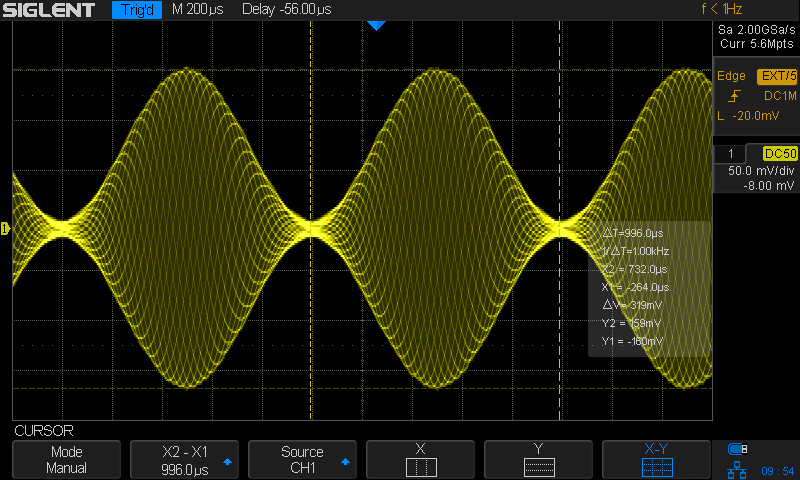
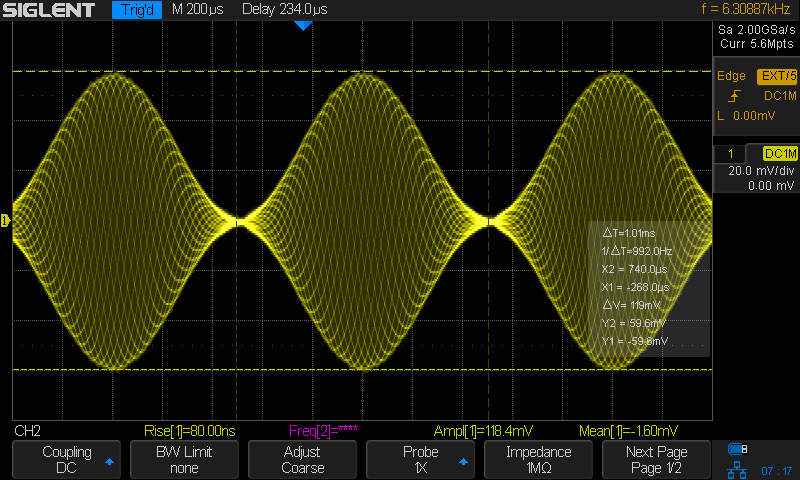
Remove Wiltron.

diff --git a/_drafts/2023-05-07-A-Deep-Dive-Into-RF-Crystal-Detectors.md b/_drafts/2023-05-07-A-Deep-Dive-Into-RF-Crystal-Detectors.md
@@ -1,6 +1,6 @@
 ---
 layout: post
-title: A Beginner's Deep Dive into RF Crystal Detector
+title: The HP 423A and a Beginner's Deep Dive into RF Crystal Detectors
 date:   2023-05-07 00:00:00 -1000
 categories:
 ---
@@ -46,25 +46,20 @@ It's an HP 423A crystal detector. According to the
 > instrument converts RF power levels applied to the 50&#937; input connector into proportional values
 > of DC voltage. ... The frequency range of the 423A is 10MHz to 12.4GHz.
 
-In the introduction of 
-[an earlier blog post](/2023/04/01/Cable-Length-Measurement-with-an-HP-8007B-Pulse-Generator.html), 
-I wrote about John, my local RF equipment dealer. A while ago, he sold me a bargain Wiltron SG-1206/U 
-programmable sweep generator that can send out a signal from 10MHz all the way to 20GHz at power levels 
-between -115dBm to 15dBm. I also picked up a dirt cheap (and smelly) HP 8656A 1GHz signal generator at 
-a previous flea market. I hadn't found a good use for either, so now was a good time to give them a 
-little workout.
+At last year's flea market, I picked up a dirt cheap, and smelly, HP 8656A 990MHz signal generator. It
+has support for amplitude modulation which is what I needed to give the detector a good workout.
 
-[![Wiltron SG-1206/U and HP 8656A signal generators](/assets/hp423a/hp8656a_wiltron_sg1206u.jpg)](/assets/hp423a/hp8656a_wiltron_sg1206u.jpg)
+[![HP 8656A signal generators](/assets/hp423a/hp8656a.jpg)](/assets/hp423a/hp8656a.jpg)
 
-In the process of playing with the detector, I discovered the warts of both signal generators, 
+In the process of playing with the detector, I discovered some warts of the signal generator, 
 I picked up an RF power meter on Craigslist, learned a truckload about RF power measurements and 
 the general behavior of diodes and the math behind it, I *finally* installed 
 [ngspice](https://ngspice.sourceforge.io/) and ran a bunch of simulations, 
 and figured out a misunderstanding about standing-wave ratio (SWR) and their relationship with 
-crystal detectors. *(Phew)*
+crystal detectors. *(Phew)* 
 
-I'm writing things down here to have a reference if I need the info back, but expect
-the contents to be meandering between a bunch of topics.
+In this blog post, I'm covering some of the theory being crystal detector, I'lll do a bunch
+of measurements, and I'll have a look at some applications.
 
 # What is a Crystal Detector?
 
@@ -114,12 +109,12 @@ is very simple.
 
 ![Crystal set radio schematic](/assets/hp423a/crystal_set_radio.jpg)
 
-On the left, a ferrite rod antenna and a variable capacitor create an LC tuning network to select
-the radio station. A germanium diode does the detection with a 470K&#937; load resistor.
+On the left, a ferrite rod antenna and a variable capacitor create a tunable LC network to select
+the radio frequency. A germanium diode does the detection with a 470K&#937; load resistor.
 The schematic doesn't have a capacitor: the output is a 
 [piezoelectric earpiece](https://en.wikipedia.org/wiki/Crystal_earpiece) 
-has the required capacitance. Notice the absence of a battery. The whole circuit
-is powered by the picked up radio waves.
+has the required capacitance. Notice the absence of a battery: the whole circuit
+is powered by the picked-up radio waves.
 
 AM radios have long ago moved on from crystal detectors to better solutions. Modern demodulators 
 mix (multiply) the incoming signal with a locally generated RF sine wave which makes the original 
@@ -127,8 +122,8 @@ LF signal emerge.
 
 It's not 100% clear to me if crystal detectors are currently still being
 used to demodulate other types of AM content. When you google for crystal detectors
-today, most hits talk about using them for power measurements and power leveling, where
-power measurement is part of a feedback loop that's used to regulate the output of an
+today, most hits talk about using them for RF power measurements or for power leveling, where
+a power measurement is part of a feedback loop that's used to regulate the output of an
 RF signal source.
 
 Here's an example of such a power leveling setup, taken from an 
@@ -139,7 +134,7 @@ Here's an example of such a power leveling setup, taken from an
 Detector HP 8470B, a close cousin of my HP 423A, measures the power
 of a chain that starts at a signal generator, goes through a 
 [pulse modulator](/2023/05/06/HP-11720A-Pulse-Modulator.html),
-and amplifier, and a directional coupler. The output of the detector ends up back at 
+an amplifier, and a directional coupler. The output of the detector ends up back at 
 the signal generator through its automatic level control (ALC) input.
 
 # Diode Square Law Behavior
@@ -152,7 +147,7 @@ otherwise. Such an ideal device has the following voltage to current graph:
 
 ![Behavior of ideal diode with and without threshold](/assets/hp423a/ideal_diode.png)
 
-In this ideal case, the resistance of the diode is zero above the threshold and
+The resistance of the diode is zero above the threshold and
 infinite below. In practice, a diode is always used in a circuit that has some kind
 of some kind of series resistance (not necessarily resistor!) to limit the current. 
 Together, the diode and this resistance form a voltage divider.
@@ -211,7 +206,7 @@ or [the Ideal Diode Equation][ideal_diode_equation].
 
 One thing is clear though: as soon as $$V_d$$ goes over a certain threshold,
 the current through the diode will be so high that it might as well be an
-ideal diode, and in a resistive divider, the resistance will carry the
+ideal diode, and in a resistive divider, the resistor will carry the
 voltage in excess of the threshold.
 
 But let's zoom in on what happens below the threshold:
@@ -223,7 +218,7 @@ be approximated very well with a quadratic curve. In this case, the
 exponential curve has been aproximated by $$I(V_d)=1.055V_d^2+0.219x$$.
 
 The quadratic behavior can be explained with a little bit of high school calculus.
-The [Taylor series](https://en.wikipedia.org/wiki/Taylor_series) of exponential function is: 
+The [Taylor series](https://en.wikipedia.org/wiki/Taylor_series) of an exponential function is: 
 
 $$e^x = 1 + x + \frac{x^2}{2!} + \frac{x^3}{3!} + \frac{x^4}{4!} + \frac{x^5}{5!} + \cdots$$
 
@@ -247,7 +242,7 @@ $$V_p$$ and frequency $$f$$: $$V_d = V_p\cos(2\pi f)$$.
 $$
 \begin{align*}
 I(V_d) &\approx I_S[(\frac{V_d}{nV_T}) + \frac{1}{2}(\frac{V_d}{nV_T})^2] \\
-&\approx I_S\frac{V_p}{nV_T} \cos(2\pi f) +  \frac{I_S}{2}(\frac{V_p}{nV_T}\cos(2\pi f))^2 \\
+&\approx I_S\frac{V_p}{nV_T} \cos(2\pi f) +  \frac{I_S}{2}[\frac{V_p}{nV_T}\cos(2\pi f)]^2 \\
 &\approx I_S\frac{V_p}{nV_T} \cos(2\pi f) +  \frac{I_S}{2}(\frac{V_p}{nV_T})^2\frac{1 + \cos(2 \cdot 2\pi f)}{2} \\
 &\approx I_S\frac{V_p}{nV_T} \cos(2\pi f) +  \frac{I_S}{4}(\frac{V_p}{nV_T})^2[1 + \cos(4\pi f)]\\
 \end{align*}
@@ -322,12 +317,10 @@ XXXX Setup XXXX
 The sample rate of scope is way below the 100MHz carrier, but it shows the outline of a 
 1kHz envelop of the AM signal very well:
 
-XXX Screenshot is wrong. It's -10dBm instead of -20dBm! XXX
-
 [![AM signal on scope](/assets/hp423a/am_waveform.png)](/assets/hp423a/am_waveform.png)
 *Click to enlarge*
 
-When we now connect the crystal detector to the output of the RF output. 
+We now connect the crystal detector to the output of the RF generator. 
 
 XXXX Setup showing the cyrstal detector plugged into the RF generator XXXX
 
@@ -342,15 +335,15 @@ the capacitor in the schematic above is the one of 10pF.
 
 In addition to the capacitor inside the detector itself, there's also the capacitance of the coax cable
 between the detector and the scope. The one that I'm using is 7ft long. At ~30pF/ft, the cable alone
-add another 210pF, which dwarfs the detector capacitance. Not for nothing, the operation manual has
+adds another 210pF, which dwarfs the detector capacitance. Not for nothing, the operation manual has
 following: 
 
 > when using the crystal detector with an oscilloscope, and the waveshapes to be observed have rise
 > times of less than 5us, the coaxial cable connecting to the oscilloscope and detector should be as
 > short as possible and shunted with a resistor.
 
-The reason they're talking about the rise time is that cable capacitance will be part of an RC 
-low-pass filter that will dull the edges on an RF pulse at the input. This is important if you
+The reason they're talking about the rise time is that the cable capacitance will be part of an RC 
+low-pass filter that dulls the edges on an RF pulse at the input. This is important if you
 want to use a crystal detector to check the slope of pulses that come out of a
 pulse modulator, like 
 [the HP 11720A that I wrote about earlier](/2023/05/06/HP-11720A-Pulse-Modulator.html).
@@ -598,63 +591,38 @@ I don't have a power sensor yet for my HP 438A, but
 [Daniel Tufvesson](https://twitter.com/DanielTufvesson/status/1647545015764230144) 
 has been hard at work at building one himself.
 
-# Reference
+# References
+
+**Crystal Detector**
 
 * [HP 423A and 8470A Crystal Detector - Operating and Service Manual](/assets/hp423a/HP_423A,8470A_Operating_&_Service.pdf)
 * [HP Journal Nov, 1963 - A New Coaxial Crystal Detector with Extremely Flat Frequency Response](https://www.hpl.hp.com/hpjournal/pdfs/IssuePDFs/1963-11.pdf)
-
-
-* [DIY Power Sensor for HP 436A and 438A](https://twitter.com/DanielTufvesson/status/1647545015764230144)
-
-    * [Chopper And Chopper-Stabilised Amplifiers, What Are They All About Then?](https://hackaday.com/2018/02/27/chopper-and-chopper-stabilised-amplifiers-what-are-they-all-about-then/)
-
-* [Infineon - RF and microwave power detection with Schottky diodes](https://www.infineon.com/dgdl/Infineon-AN_1807_PL32_1808_132434_RF%20and%20microwave%20power%20detection%20-AN-v01_00-EN.pdf?fileId=5546d46265f064ff0166440727be1055)
-
-* [Agilent AN980 - Square Law and Linear Detection](/assets/hp423a/an986-square_law_and_linear_detection.pdf)
-
-    Interesting sections about diode equivalent resistance.
-
-* [Square Law Detectors](https://www.nitehawk.com/rasmit/ras_appl6.pdf)
-* [Wiltron - Operator's and Unit Maintenance Manual for SG-1206/U](https://radionerds.com/images/2/20/TM_11-6625-3231-12.PDF)
-* [Analog Devices - Understanding, Operating, and Interfacing to Integrated Diode-Based RF Detectors](https://www.analog.com/en/technical-articles/integrated-diode-based-rf-detectors.html)
-* [Diode Detector](https://analog.intgckts.com/rf-power-detector/diode-detector-2/)
-* [Design and development of RF power detector for microwave application](https://www.semanticscholar.org/paper/Design-and-development-of-RF-power-detector-for-Ali-Ibrahim/fed809b8f38fe7d0ebc0ffdc9fd1a7da3ac93037)
-
-* [HP AN 64-1A - Fundamentals of RF and Microwave Power Measurements](https://www.hpmemoryproject.org/an/pdf/an_64-1a.pdf)
-
-    83 pages about RF power measurements. Goes over all the different techniques, benefits, 
-    disadvantages, etc.
-
-    Required reading to get up to speed.
-
-* [6 Lines of Python to Plot SQLite Data](https://funprojects.blog/2021/12/27/6-lines-of-python-to-plot-sqlite-data/)
-
-* [RF Diode Detector Measurement](https://twiki.ph.rhul.ac.uk/twiki/pub/PP/Public/JackTowlerLog1/diode.pdf)
-
-* [Diode detectors for RF measurement Part 1: Rectifier circuits, theory and calculation procedures.](https://g3ynh.info/circuits/Diode_det.pdf)
-
-    116 pages with everything you ever wanted to know about diode rectifiers.
-    
-* [RF Diode detector / AM demodulator](http://www.crystal-radio.eu/diodedetector/endiodedetector.htm)
-
-* [HP RF & Microwave Measurement Symposium and Exhibition - Characteristics and Applications of Diode Detectors](https://xdevs.com/doc/HP/pub/Pratt_Diode_detectors.pdf)
-
-    Excellent presentation that derives the math and talks about applications.
-
-* [Aertech Industries - Crystal Detectors](https://www.prc68.com/I/Aertech.shtml#Crystal_Detector)
-
-    Links to various detector patents.
-
-* [Crystal Detector Calibration Program and Procedure](https://apps.dtic.mil/sti/pdfs/ADA523931.pdf)
-
 * [Agilent 8473B/C Crystal Detector - Operating and Service Manual](https://xdevs.com/doc/HP_Agilent_Keysight/HP%208473%20Operating%20and%20Service.pdf)
 
-    Interesting information about frequency response, SWR etc. 
-    
-* [Keysight - 415E SWR Meter](https://www.keysight.com/us/en/product/415E/swr-meter.html#resources)
+**Square Law**
+
+* [HP RF & Microwave Measurement Symposium and Exhibition - Characteristics and Applications of Diode Detectors](https://xdevs.com/doc/HP/pub/Pratt_Diode_detectors.pdf)
+* [Agilent AN980 - Square Law and Linear Detection](/assets/hp423a/an986-square_law_and_linear_detection.pdf)
+* [Square Law Detectors](https://www.nitehawk.com/rasmit/ras_appl6.pdf)
+* [Diode Detector - Principle of Operation](https://analog.intgckts.com/rf-power-detector/diode-detector-2/)
+
+
+**Power Measurement & Power Leveling**
+
+* [HP AN 64-1A - Fundamentals of RF and Microwave Power Measurements](https://www.hpmemoryproject.org/an/pdf/an_64-1a.pdf)
+* [HP AN 218-5: Obtaining Leveled Pulse-Modulated Microwave Signals from the HP 8672A](https://www.hpmemoryproject.org/an/pdf/an_218-5.pdf)
+* [Infineon - RF and microwave power detection with Schottky diodes](https://www.infineon.com/dgdl/Infineon-AN_1807_PL32_1808_132434_RF%20and%20microwave%20power%20detection%20-AN-v01_00-EN.pdf?fileId=5546d46265f064ff0166440727be1055)
+* [RF Diode Detector Measurement](https://twiki.ph.rhul.ac.uk/twiki/pub/PP/Public/JackTowlerLog1/diode.pdf)
+* [Diode detectors for RF measurement Part 1: Rectifier circuits, theory and calculation procedures.](https://g3ynh.info/circuits/Diode_det.pdf)
+* [Analog Devices - Understanding, Operating, and Interfacing to Integrated Diode-Based RF Detectors](https://www.analog.com/en/technical-articles/integrated-diode-based-rf-detectors.html)
+* [DIY Power Sensor for HP 436A and 438A](https://twitter.com/DanielTufvesson/status/1647545015764230144)
+
+**AM Demodulation**
+
+* [RF Diode detector / AM demodulator](http://www.crystal-radio.eu/diodedetector/endiodedetector.htm)
+
+**Spice**
 
 * [The SPICE Diode Model](https://ltwiki.org/files/SPICEdiodeModel.pdf)
-
-* [HP App Note 218-5: Obtaining Leveled Pulse-Modulated Microwave Signals from the HP 8672A](https://www.hpmemoryproject.org/an/pdf/an_218-5.pdf)
 
 # Footnotes
